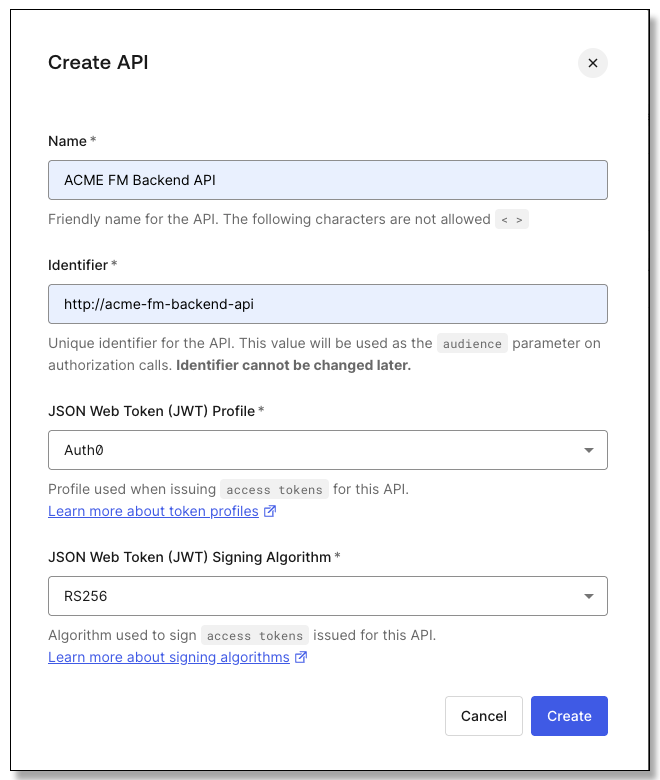
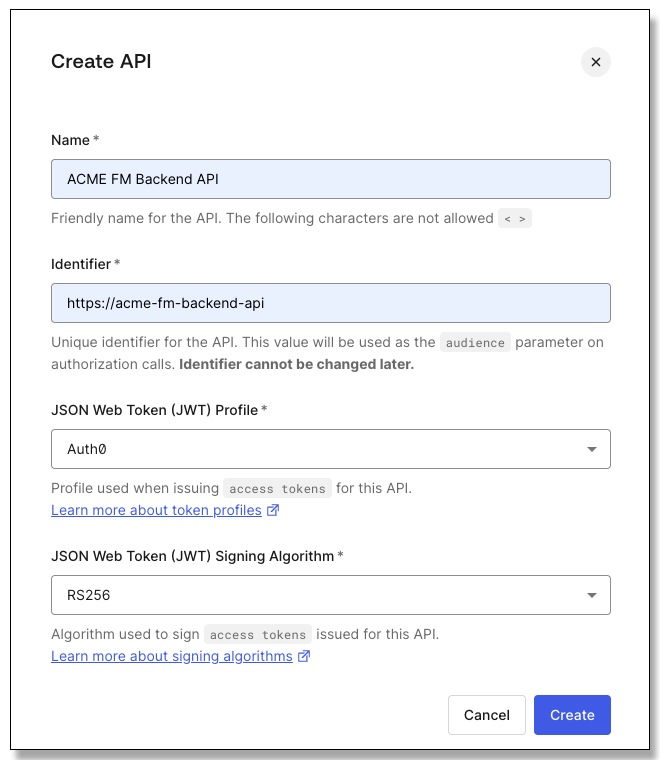
Update module 2

diff --git a/Solutions/Module 02/API/src/server.js b/Solutions/Module 02/API/src/server.js
@@ -2,9 +2,10 @@
 // Backend API
 //
 
+import cors from 'cors'
 import dotenv from "dotenv"
 import express from 'express'
-import cors from 'cors'
+import fs from 'fs'
 import { auth, requiredScopes } from 'express-oauth2-jwt-bearer'
 import logger from 'morgan'
 import path, { dirname, normalize } from 'path'
@@ -14,7 +15,7 @@ dotenv.config()
 
 if (!process.env.BASE_URL) {
     process.env.BASE_URL = !process.env.CODESPACE_NAME
-        ? `http://localhost:${process.env.PORT}`
+        ? `https://localhost:${process.env.PORT}`
         : `https://${process.env.CODESPACE_NAME}-${process.env.PORT}.${process.env.GITHUB_CODESPACES_PORT_FORWARDING_DOMAIN}`
 }
 
@@ -60,7 +61,13 @@ app.use((err, req, res, next) => {
     res.json({ status: err.status, message: err.message })
 })
 
-app.listen(process.env.PORT, () => console.log(`Back-end API started at: ${process.env.BASE_URL}`))
+const expressOptions = {
+    key: fs.readFileSync(process.env.PRIVATE_KEY_PATH, 'utf8'),
+    cert: fs.readFileSync(process.env.CERTIFICATE_PATH, 'utf8')
+}
+
+https.createServer(expressOptions, app)
+    .listen(process.env.PORT, () => console.log(`Backend API started, use ctrl/cmd-click to follow this link: ${process.env.BASE_URL}`))
 
 const expenses = [
     {

diff --git a/Module 02/API/src/server.js b/Module 02/API/src/server.js
@@ -2,9 +2,10 @@
 // Backend API
 //
 
+import cors from 'cors'
 import dotenv from "dotenv"
 import express from 'express'
-import cors from 'cors'
+import fs from 'fs'
 import logger from 'morgan'
 import path, { dirname, normalize } from 'path'
 import { fileURLToPath } from 'url'
@@ -13,7 +14,7 @@ dotenv.config()
 
 if (!process.env.BASE_URL) {
     process.env.BASE_URL = !process.env.CODESPACE_NAME
-        ? `http://localhost:${process.env.PORT}`
+        ? `https://localhost:${process.env.PORT}`
         : `https://${process.env.CODESPACE_NAME}-${process.env.PORT}.${process.env.GITHUB_CODESPACES_PORT_FORWARDING_DOMAIN}`
 }
 
@@ -51,7 +52,13 @@ app.use((err, req, res, next) => {
     res.json({ status: err.status, message: err.message })
 })
 
-app.listen(process.env.PORT, () => console.log(`Back-end API started at: ${process.env.BASE_URL}`))
+const expressOptions = {
+    key: fs.readFileSync(process.env.PRIVATE_KEY_PATH, 'utf8'),
+    cert: fs.readFileSync(process.env.CERTIFICATE_PATH, 'utf8')
+}
+
+https.createServer(expressOptions, app)
+    .listen(process.env.PORT, () => console.log(`Backend API started, use ctrl/cmd-click to follow this link: ${process.env.BASE_URL}`))
 
 const expenses = [
     {

diff --git a/Module 03/API/src/server.js b/Module 03/API/src/server.js
@@ -59,17 +59,4 @@ const expressOptions = {
 }
 
 https.createServer(expressOptions, app)
-    .listen(process.env.PORT, () => console.log(`Back-end API started, use ctrl/cmd-click to follow this link: ${process.env.BASE_URL}`))
-
-const expenses = [
-    {
-        date: new Date(),
-        description: 'Pizza for a Coding Dojo session.',
-        value: 102,
-    },
-    {
-        date: new Date(),
-        description: 'Coffee for a Coding Dojo session.',
-        value: 42,
-    },
-]
+    .listen(process.env.PORT, () => console.log(`Backend API started, use ctrl/cmd-click to follow this link: ${process.env.BASE_URL}`))

diff --git a/Solutions/Module 03/API/src/server.js b/Solutions/Module 03/API/src/server.js
@@ -59,17 +59,4 @@ const expressOptions = {
 }
 
 https.createServer(expressOptions, app)
-    .listen(process.env.PORT, () => console.log(`Back-end API started, use ctrl/cmd-click to follow this link: ${process.env.BASE_URL}`))
-
-const expenses = [
-    {
-        date: new Date(),
-        description: 'Pizza for a Coding Dojo session.',
-        value: 102,
-    },
-    {
-        date: new Date(),
-        description: 'Coffee for a Coding Dojo session.',
-        value: 42,
-    },
-]
+    .listen(process.env.PORT, () => console.log(`Backend API started, use ctrl/cmd-click to follow this link: ${process.env.BASE_URL}`))

diff --git a/module02-instructions.md b/module02-instructions.md
@@ -111,11 +111,17 @@ It is possible to type and select multiple users in this field.
 
 ## Part 4: Add Access Token Support to the API
 
-Access tokens for APIs must be requested by the application as part of the authorization request.
+1. Right-click the *certificates* folder at the top-level of the project and select *Open in Integrated Terminal*.
+
+1. Use *mkcert* to create a private/public key pair for the API to serve TLS (https).
+    These keys will be placed in the *certificates* folder under the project to share with modules 3 and 4:
+    ```bash
+    $ mkcert -cert-file localhost-cert.pem -key-file localhost-cert-key.pem localhost mytestsite.localhost 127.0.0.1 ::1
+    ```
 
 1. In the VS Code Explorer panel find the API folder and right-click on *.env*.
 Choose the *Open to the Side* option.
-Notice that the *AUDIENCE*, *ISSUER* and *JWKS_URI* are not set.
+Notice that the *AUDIENCE, ISSUER, JWKS_URI, PRIVATE_KEY_PATH*, and *CERTIFICATE_PATH* are not set.
 
 1. In the Auth0 tenant use the sidebar to navigate to *Applications &rarr; Applications* and
 choose the *ACME Financial Management* application.
@@ -126,11 +132,20 @@ choose the *ACME Financial Management* application.
 
 1. In VS Code, in the .env file in the editor, set the *JWKS_URI* to the value copied from the tenant.
 
-1. Set the *ISSUER* to the URL of your Auth0 tenant: *HTTPS&#x200B;://\<your domain>.\<your region>.auth0.com*.
+1. Set the *ISSUER* to the URL of your Auth0 tenant: *https&#x200B;://\<your domain>.\<your region>.auth0.com*.
 That happens to be the first part of the JWKS_URI value, up to the / in front of the path part of the URL, so you
 can get it from there.
 
-1. Set the *AUDIENCE* to the audience we defined in Auth0 for the API: *http&#x200B;://acme-fm-backend-api*.
+1. Set the *AUDIENCE* to the audience we defined in Auth0 for the API:
+    ```
+    AUDIENCE="https://acme-fm-backend-api"
+    ```
+
+1. Set the values to locate the private key and HTTPS certificate files:
+    ```
+    PRIVATE_KEY_PATH="../../certificates/localhost-cert-key.pem"
+    CERTIFICATE_PATH="../../certificates/localhost-cert.pem"
+    ```
 
 1. Save the .env file.
 
